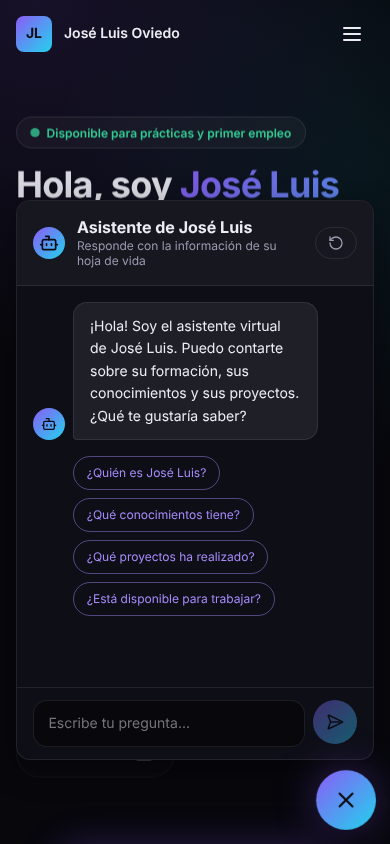
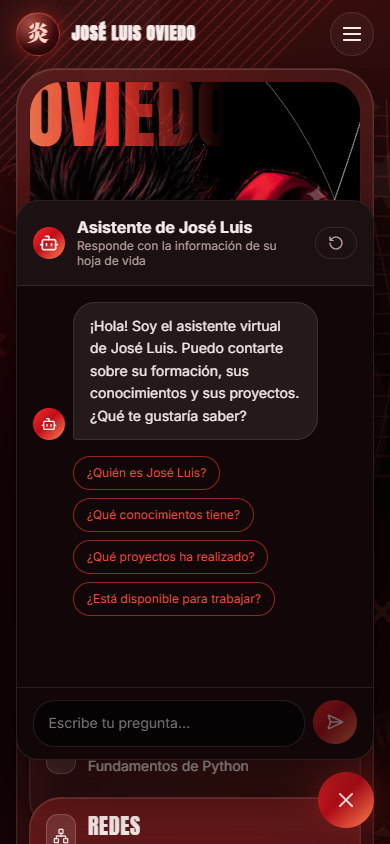
Actualizar capturas del README al diseño actual
Las seis capturas de docs/capturas mostraban el diseño violeta anterior.
Ahora muestran el tema rojo con vidrio: inicio bento, sidebar de proyectos,
tecnologías, asistente, validaciones de contacto y chat en móvil.

diff --git a/README.md b/README.md
@@ -208,7 +208,7 @@ Todo se edita en `frontend/src/data/`, sin tocar componentes:
 
 ## 14. Capturas de pantalla
 
-| Proyectos y sidebar | Tecnologías |
+| Proyectos y sidebar (proyecto con imagen que se quema) | Tecnologías |
 | --- | --- |
 | ![Proyectos](docs/capturas/proyectos-sidebar.png) | ![Tecnologías](docs/capturas/tecnologias.png) |
 
@@ -216,7 +216,6 @@ Todo se edita en `frontend/src/data/`, sin tocar componentes:
 | --- | --- | --- |
 | ![Asistente](docs/capturas/asistente.png) | ![Chat móvil](docs/capturas/chat-movil.png) | ![Contacto](docs/capturas/contacto-validacion.png) |
 
-> La captura del asistente muestra el aviso que aparece cuando aún no hay API Key configurada.
 
 ## 15. Posibles mejoras
 
